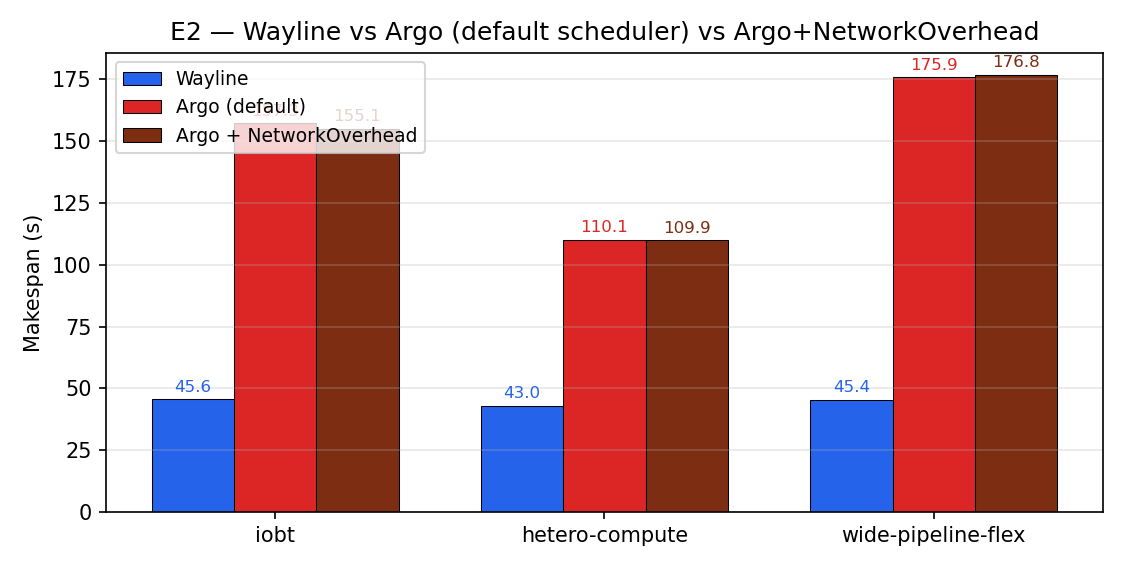
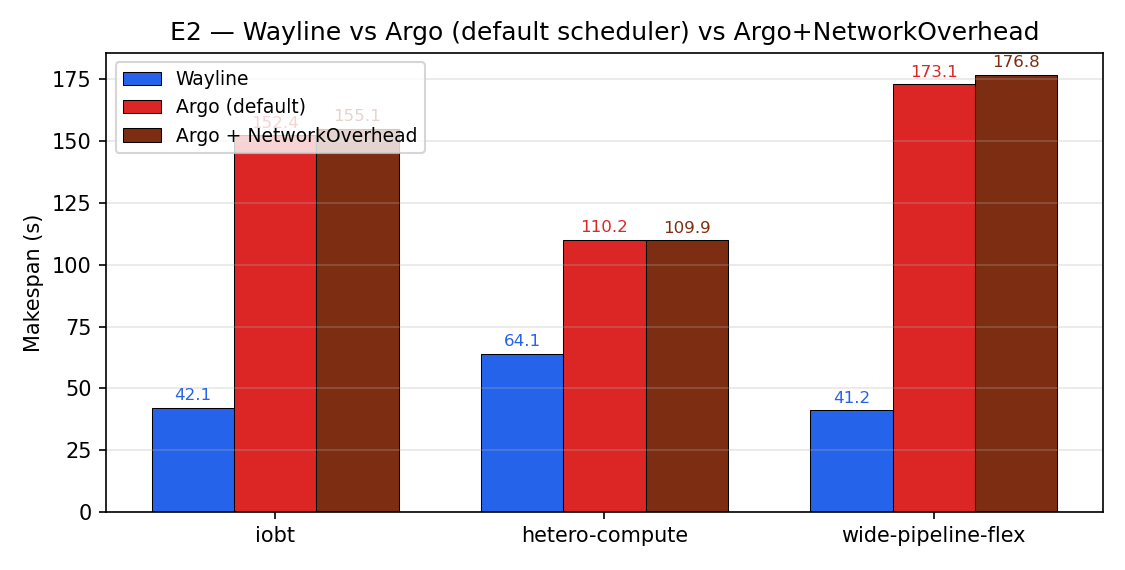
docs: release documentation + reproduce guide
- eval/README.md: artifact reproduce guide — every paper figure/table mapped to
  its dir, the command to regenerate it from committed data, expected result, and
  testbed requirements (USENIX-AE style: kick-the-tires vs full re-run).
- Makefile: 'make repro-figures' regenerates all paper figures from committed CSVs.
- README: repoint Reproducing section to the new eval/ structure + repro-figures;
  drop the obsolete legacy-DSF coexistence notes.
- docs/architecture.md: drop coexistence note.
- CONTRIBUTING.md: build/test/PR guide.
- Fix reorg-stale path refs (e2/plot.py -> e1 results; e0 README tc-matrix path).
- Regenerated figures from the moved+scrubbed data.

diff --git a/eval/synthetic-dags/e2/plot.py b/eval/synthetic-dags/e2/plot.py
@@ -20,7 +20,7 @@ import matplotlib.pyplot as plt
 
 HERE = pathlib.Path(__file__).parent
 RESULTS_NO = HERE / "results"                # Argo+NetworkOverhead
-RESULTS_E1 = HERE.parent / "argo-headtohead" / "results"   # wayline + argo
+RESULTS_E1 = HERE.parent / "e1" / "results"   # wayline + argo
 FIGS = HERE / "figures"
 FIGS.mkdir(parents=True, exist_ok=True)
 

diff --git a/eval/README.md b/eval/README.md
@@ -1,0 +1,70 @@
+# Reproducing the Wayline evaluation
+
+This directory is the artifact for the Wayline paper. Each subdirectory holds one
+experiment: its run scripts, the committed result data, and a plot script that
+regenerates the corresponding paper figures from that data. All results were
+collected on the Wayline (`wl-system`) build.
+
+```
+e0-microbench/     E0 two-task data-plane microbenchmark (Wayline vs MinIO/NFS)
+ray-microbench/    E0 with Ray's object store as a third comparator
+mcmt/              AI City multi-camera tracking (the headline real workload)
+  results/hero/      paired Wayline-vs-Argo makespan (the 1.6–2.1× result)
+  results/ablation-main/  matched-placement static ablation (the 2.10× data-plane result)
+  results/ablation-static-n4-d120-png/  HEFT spreadEpsilon sweep
+  baselines/         distributed-MinIO (4-replica) and centralized-NFS baselines
+synthetic-dags/
+  e1/                full-system Wayline vs Argo+MinIO on iobt/hetero/wpf
+  e2/                Argo + Kubernetes NetworkOverhead scheduler-plugin
+  scheduler/         HEFT vs random placement under shaped tc topologies
+stress/            K=3 concurrent ODAGs + data-agent CPU/RSS overhead
+data-agent-tests/  correctness invariants + adversarial failure injection
+```
+
+## Two ways to reproduce
+
+**(1) Regenerate the figures from the committed data — no cluster needed (seconds).**
+```
+make repro-figures        # from the repo root
+```
+This runs each experiment's plot script against its committed result CSVs and
+rewrites the figures. Use it to confirm the paper's figures follow from the
+shipped data.
+
+**(2) Re-run the experiments end-to-end — requires the testbed (hours).**
+Each directory has a `run.sh` / `sweep.sh`. See per-claim commands below.
+
+## Requirements for end-to-end reproduction
+- **Cluster:** 8-node x86 k3s — 1 master + 7–8 workers, Intel i3-N305 (8 cores,
+  Xe-LP iGPU), 16 GB RAM, 1 GbE, plus a local registry (`<master-ip>:5000`).
+- **Network shaping:** `tc/htb/netem`; the 8×8 matrix is applied by
+  `synthetic-dags/scheduler/setup-tc-matrix.sh`.
+- **MCMT only:** the AI City Challenge Track-1 dataset (registration required;
+  fetch scripts in `mcmt/dataset/`) and the iGPU (`/dev/dri`) for VAAPI/OpenVINO.
+- Convention: 20 paired reps/cell, warm window = runs 5–20, CPU governor `performance`.
+
+## Claim → source → command → expected
+
+| Paper artifact | dir | regenerate from data | expected |
+|---|---|---|---|
+| Fig/Tab E0 (e0-summary) | `e0-microbench/` | `cd e0-microbench && python3 plot.py` | same-100MB 2.74×, same-500MB **7.2×** Wayline vs MinIO |
+| Tab e0-ray | `ray-microbench/` | data in `ray-e0.csv` (tc), `ray-e0-notc.csv` | Ray cross-node 500MB ≈ 401 s vs Wayline same-node ≈ 5.7 s |
+| Tab/Fig aicity (hero) | `mcmt/results/hero/` | `cd mcmt && python3 scripts/plot-fair.py` | d120-png tc: Argo 225.9 s / Wayline 107.8 s (**2.10×**); 1.6–2.1× across cells |
+| Tab static-ablation | `mcmt/results/ablation-main/` + `.../ablation-static-*` | (in plot-fair) | Argo 227.7 / Wayline-spread 108.2 (2.10×); ε=0/40/60 → 128.2/113.8/108.5 |
+| Tab tuned-minio | `mcmt/baselines/` | — | distributed-MinIO ≈ 215 s, NFS ≈ 218 s (both ≈ 2.0× slower than Wayline) |
+| Tab/Fig aicity-random | `mcmt/results/` (random nets) | `python3 scripts/plot-fair.py` | median ≈ 2.6× across 10 seeded topologies, wins all 10 |
+| Fig/Tab E1 (e1-summary) | `synthetic-dags/e1/` | `cd synthetic-dags/e1 && python3 plot.py` | iobt 3.62×, hetero 1.72×, wpf 4.20× (Wayline vs Argo) |
+| Fig/Tab E2 (e2-summary) | `synthetic-dags/e2/` | `cd synthetic-dags/e2 && python3 plot.py` | NetworkOverhead gives Argo ≤1.4%; gap to Wayline unchanged |
+| Tab scheduler / heft-vs-random | `synthetic-dags/scheduler/` | `cd synthetic-dags/scheduler && python3 plot-results.py` | HEFT vs random: variance ↓ up to 6.1×, mean ↓ up to 11.8% |
+| Tab concurrent | `stress/concurrent-k3-results.csv` | — | K=3 makespans 158/155/157 s; 1.70× concurrency gain |
+| Tab overhead | `stress/overhead-{solo,k3-metrics}.csv` | — | solo d120-png peak 0.30 cores / 1.27 GB; K=3 0.14 cores / 0.315 GB |
+| Tab agent-tests / failure-injection | `data-agent-tests/` | `bash correctness.sh` / `bash failure-injection.sh` | 11/11 invariants pass; 3/3 kill-and-recover pass |
+
+End-to-end re-run: each dir's `run.sh`/`sweep.sh` (e.g. `cd e0-microbench && ./sweep.sh`,
+`cd mcmt && less RUNBOOK.md`). Network experiments first apply
+`synthetic-dags/scheduler/setup-tc-matrix.sh`.
+
+> Note on naming: the project was renamed DSF→Wayline; identifiers here are all
+> `wayline`/`wl-system`/`wl.io`. Material not in the paper (exploratory runs,
+> superseded result copies, campaign workspaces) lives under `eval/_archive/`
+> (gitignored, kept on disk) and in the git history.

diff --git a/README.md b/README.md
@@ -314,27 +314,33 @@ sudo systemctl restart k3s          # master
 sudo systemctl restart k3s-agent    # each worker
 ```
 
-The data-agent DaemonSet binds **hostPort 8082** on every node (chosen so a
-Wayline cluster can coexist with a legacy Wayline deployment on 8081). It writes
+The data-agent DaemonSet binds **hostPort 8082** on every node and writes
 node-local intermediates under `/data/wl-outputs`.
 
 ---
 
 ## Reproducing the paper
 
-The complete evaluation lives in [`eval/`](eval/); start with
-[`eval/EXPERIMENTS.md`](eval/EXPERIMENTS.md). Highlights:
+The complete evaluation lives in [`eval/`](eval/); **start with
+[`eval/README.md`](eval/README.md)**, which maps every paper figure and table
+to the exact command that reproduces it, the expected result, and the approximate
+runtime. Each experiment directory holds its scripts, committed results, and a
+plot script that regenerates the paper figures from those results.
 
-| Directory | Experiment |
+| Directory | Paper artifact |
 |---|---|
-| `eval/mcmt/` | AI City multi-camera tracking head-to-head (Wayline vs Argo+MinIO, distributed MinIO, NFS) |
-| `eval/synthetic-dags/scheduler/` | HEFT placement under bandwidth-asymmetric `tc` topologies |
-| `eval/e0-microbench/` | E0 data-plane microbenchmark (same-node vs cross-node, by payload size) |
-| `eval/synthetic-dags/e1/`, `eval/synthetic-dags/e2/` | Argo/MinIO baselines |
-| `eval/ray-microbench/`, `eval/scalability/`, `eval/overhead-stress/` | Ray comparison, scaling, overhead |
+| `eval/e0-microbench/` | E0 data-plane microbenchmark (Tab. e0-summary, Fig. e0-*; the 2.7–7.2× same/cross-node results) |
+| `eval/mcmt/` | AI City multi-camera tracking, Wayline vs Argo+MinIO/distributed-MinIO/NFS (Tab/Fig aicity-*, static-ablation, tuned-minio) |
+| `eval/synthetic-dags/e1/`, `.../e2/`, `.../scheduler/` | E1 head-to-head, E2 NetworkOverhead, HEFT-vs-random scheduler ablation |
+| `eval/ray-microbench/` | E0 with Ray as a third comparator (Tab. e0-ray) |
+| `eval/stress/` | concurrent-ODAG throughput + data-agent overhead (Tab. concurrent, overhead) |
+| `eval/data-agent-tests/` | data-agent correctness + adversarial failure injection |
 
-> The eval harnesses are preserved verbatim as they were run, and therefore still
-> reference the project's original `wayline`/`wl-system` identifiers.
+**Kick the tires (no cluster needed):** `make repro-figures` regenerates the
+paper figures from the committed result CSVs in seconds. Reproducing the raw
+measurements requires the 8-node x86 k3s testbed (and the AI City dataset for
+MCMT); see `eval/README.md` for which claims need the testbed vs. which a
+reviewer can reproduce from the shipped data.
 
 ---
 
@@ -358,10 +364,6 @@ kubectl logs -n wl-system deployment/odag-controller --tail=40
 kubectl logs -n wl-system -l app=data-agent --tail=40
 kubectl get pods -l wl-odag=<name>
 ```
-
-**Coexisting with a legacy Wayline cluster.** Wayline uses namespace `wl-system`, CRD
-group `wl.io`, label `wl-odag`, data dir `/data/wl-outputs`, and data-agent port
-`8082` — all distinct from Wayline's — so the two can run side by side.
 
 ---
 

diff --git a/CONTRIBUTING.md b/CONTRIBUTING.md
@@ -1,0 +1,31 @@
+# Contributing to Wayline
+
+Thanks for your interest. Wayline is a research artifact (ATC paper) plus a
+working Kubernetes-native runtime for one-shot DAGs.
+
+## Layout & docs
+- Architecture and data-plane internals: [`docs/architecture.md`](docs/architecture.md)
+- Getting started / local dev: [`docs/getting-started.md`](docs/getting-started.md), [`docs/local-dev.md`](docs/local-dev.md)
+- Writing tasks (Python SDK): [`docs/sdk-quickstart.md`](docs/sdk-quickstart.md)
+- Reproducing the evaluation: [`eval/README.md`](eval/README.md)
+
+## Building & testing
+```
+make build      # Go binaries (odag-controller, data-agent, ui-server, wayline CLI)
+make ui-build   # React UI
+make test       # Go unit tests
+```
+The controller is the only place scheduling logic lives
+(`cmd/odag-controller/`). The data plane is `cmd/data-agent/`. CRDs are raw YAML
+under `api/v1/` (the controller works with `unstructured` objects, not generated
+structs).
+
+## Pull requests
+- Keep changes focused; match the surrounding code's style.
+- If you touch the scheduler or data-plane wire protocol, note the impact on the
+  invariants in `eval/data-agent-tests/`.
+- Run `make build && make test` before submitting.
+
+## License
+By contributing you agree your contributions are licensed under the repository's
+[MIT License](LICENSE).

diff --git a/eval/e0-microbench/README.md b/eval/e0-microbench/README.md
@@ -37,7 +37,7 @@ E0 measures the size of that penalty under controlled conditions.
 | Co-location | same-node (anrg-3 ↔ anrg-3), cross-node (anrg-3 ↔ anrg-6, S-link 50 Mbps) |
 | System | `wayline`, `minio` |
 
-- Matrix v2 tc shaping is **on** throughout (`../network-aware/setup-tc-matrix.sh`).
+- Matrix v2 tc shaping is **on** throughout (`../synthetic-dags/scheduler/setup-tc-matrix.sh`).
 - MinIO single-pod on a *neutral* node (anrg-9) so its reachability is
   symmetric and stable across cells.
 
@@ -124,8 +124,8 @@ eval/e0-microbench/
 
 - 8-node k3s cluster healthy (`kubectl get nodes`).
 - Wayline controllers + data-agent DaemonSet running in `wl-system` (paper builds rely on
-  the existing matrix-v2 deployment — see `../network-aware/README.md`).
-- Bandwidth matrix v2 applied (`../network-aware/setup-tc-matrix.sh`).
+  the existing matrix-v2 deployment — see `../synthetic-dags/scheduler/README.md`).
+- Bandwidth matrix v2 applied (`../synthetic-dags/scheduler/setup-tc-matrix.sh`).
 - Local image registry at `192.168.1.163:5000` reachable from every node.
 
 ### Smoke test (run this first)

diff --git a/docs/architecture.md b/docs/architecture.md
@@ -146,5 +146,5 @@ binary. See [local-dev.md](local-dev.md) for running it as a local binary.
 - **Trusted single-domain edge clusters.** The agent is privileged and validates
   every URL-derived path component before constructing a filesystem path; this is
   not a hostile multi-tenant isolation model.
-- **Distinct identifiers from Wayline.** `wl-system` / `wl.io` / `wl-odag` /
-  `/data/wl-outputs` / port 8082 let Wayline coexist with a legacy Wayline cluster.
+- **Namespaced identifiers.** `wl-system` / `wl.io` / `wl-odag` /
+  `/data/wl-outputs` / data-agent port 8082.